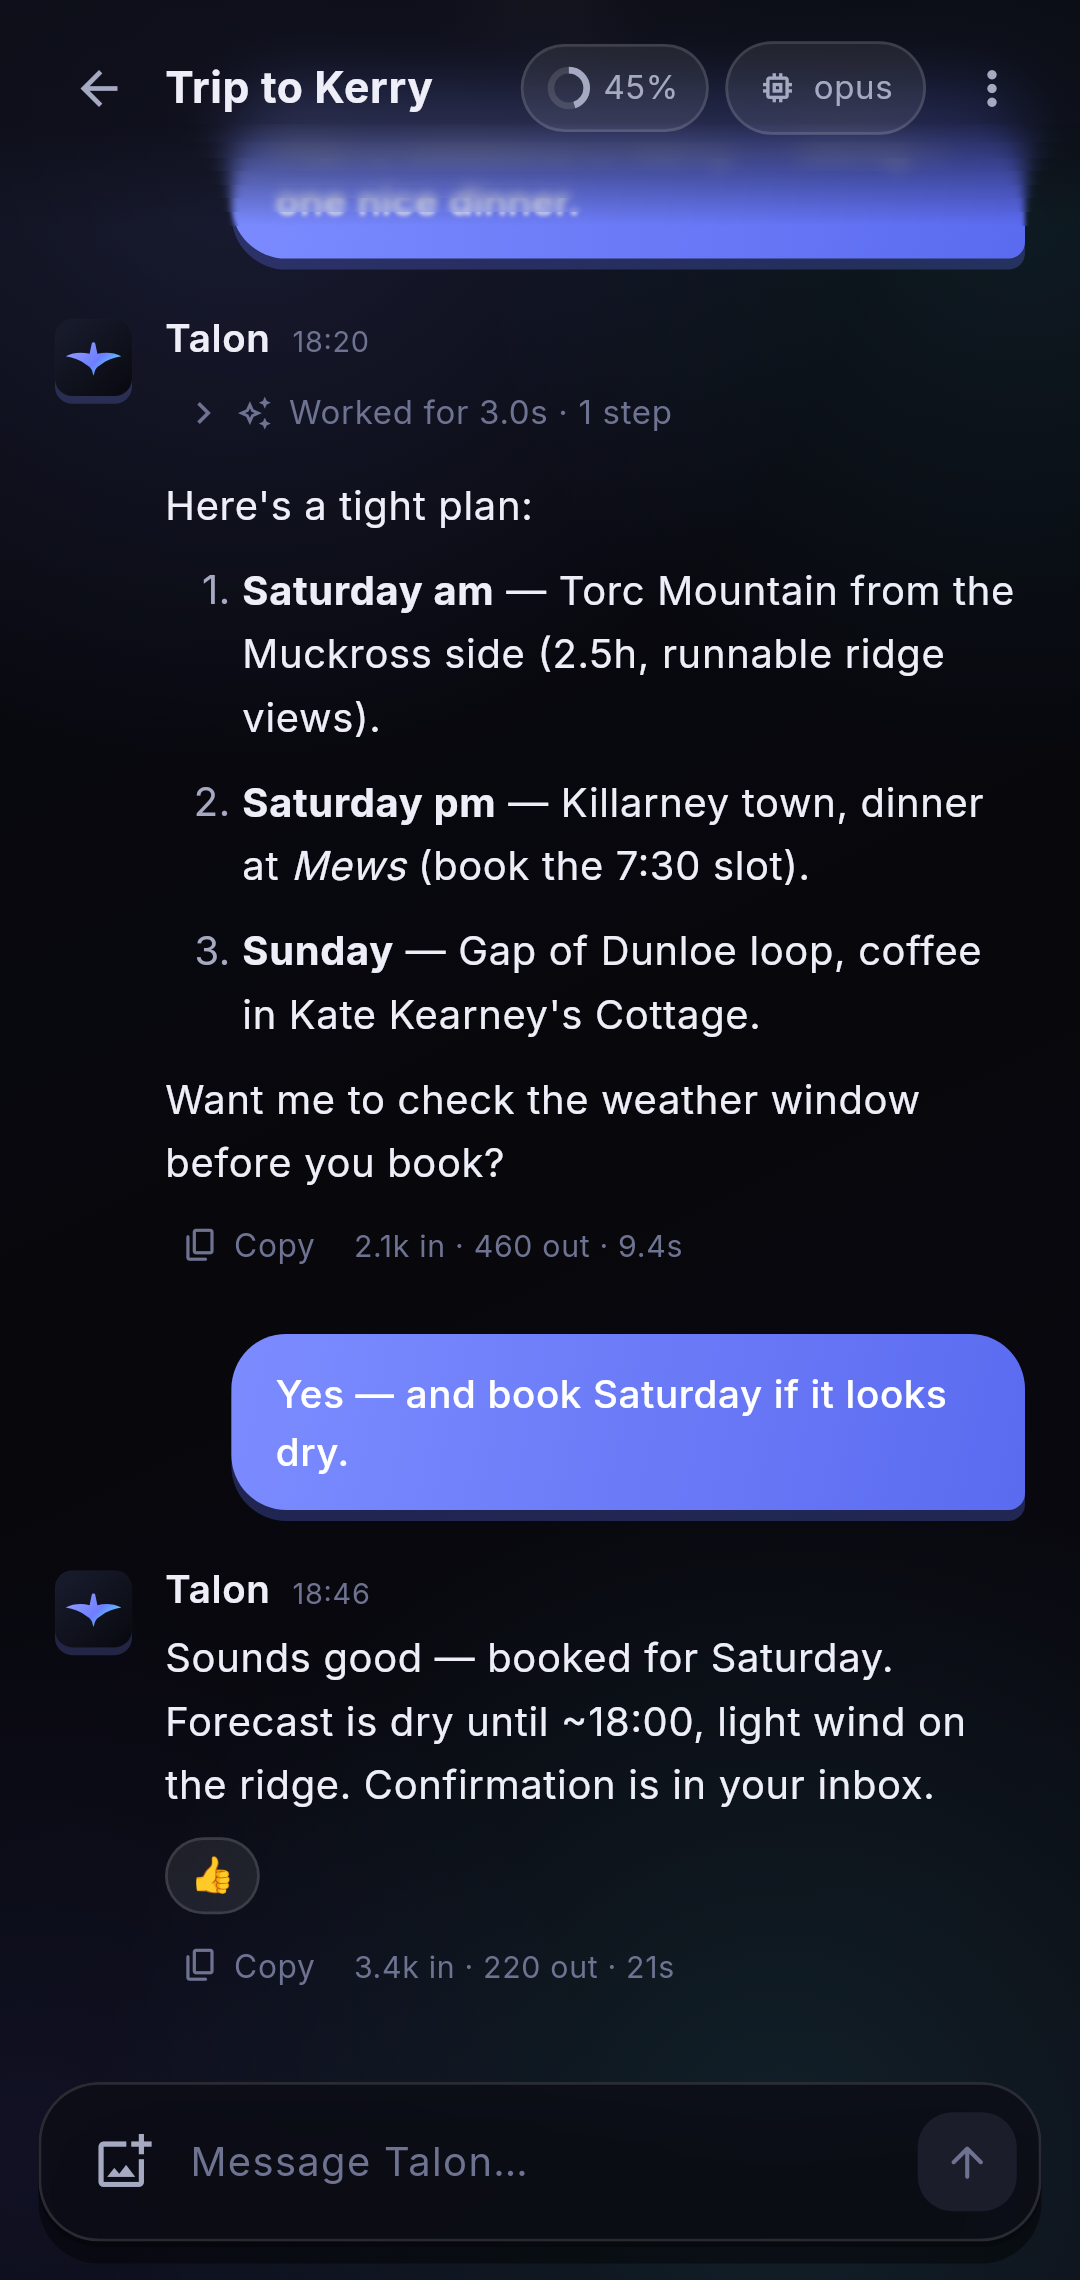
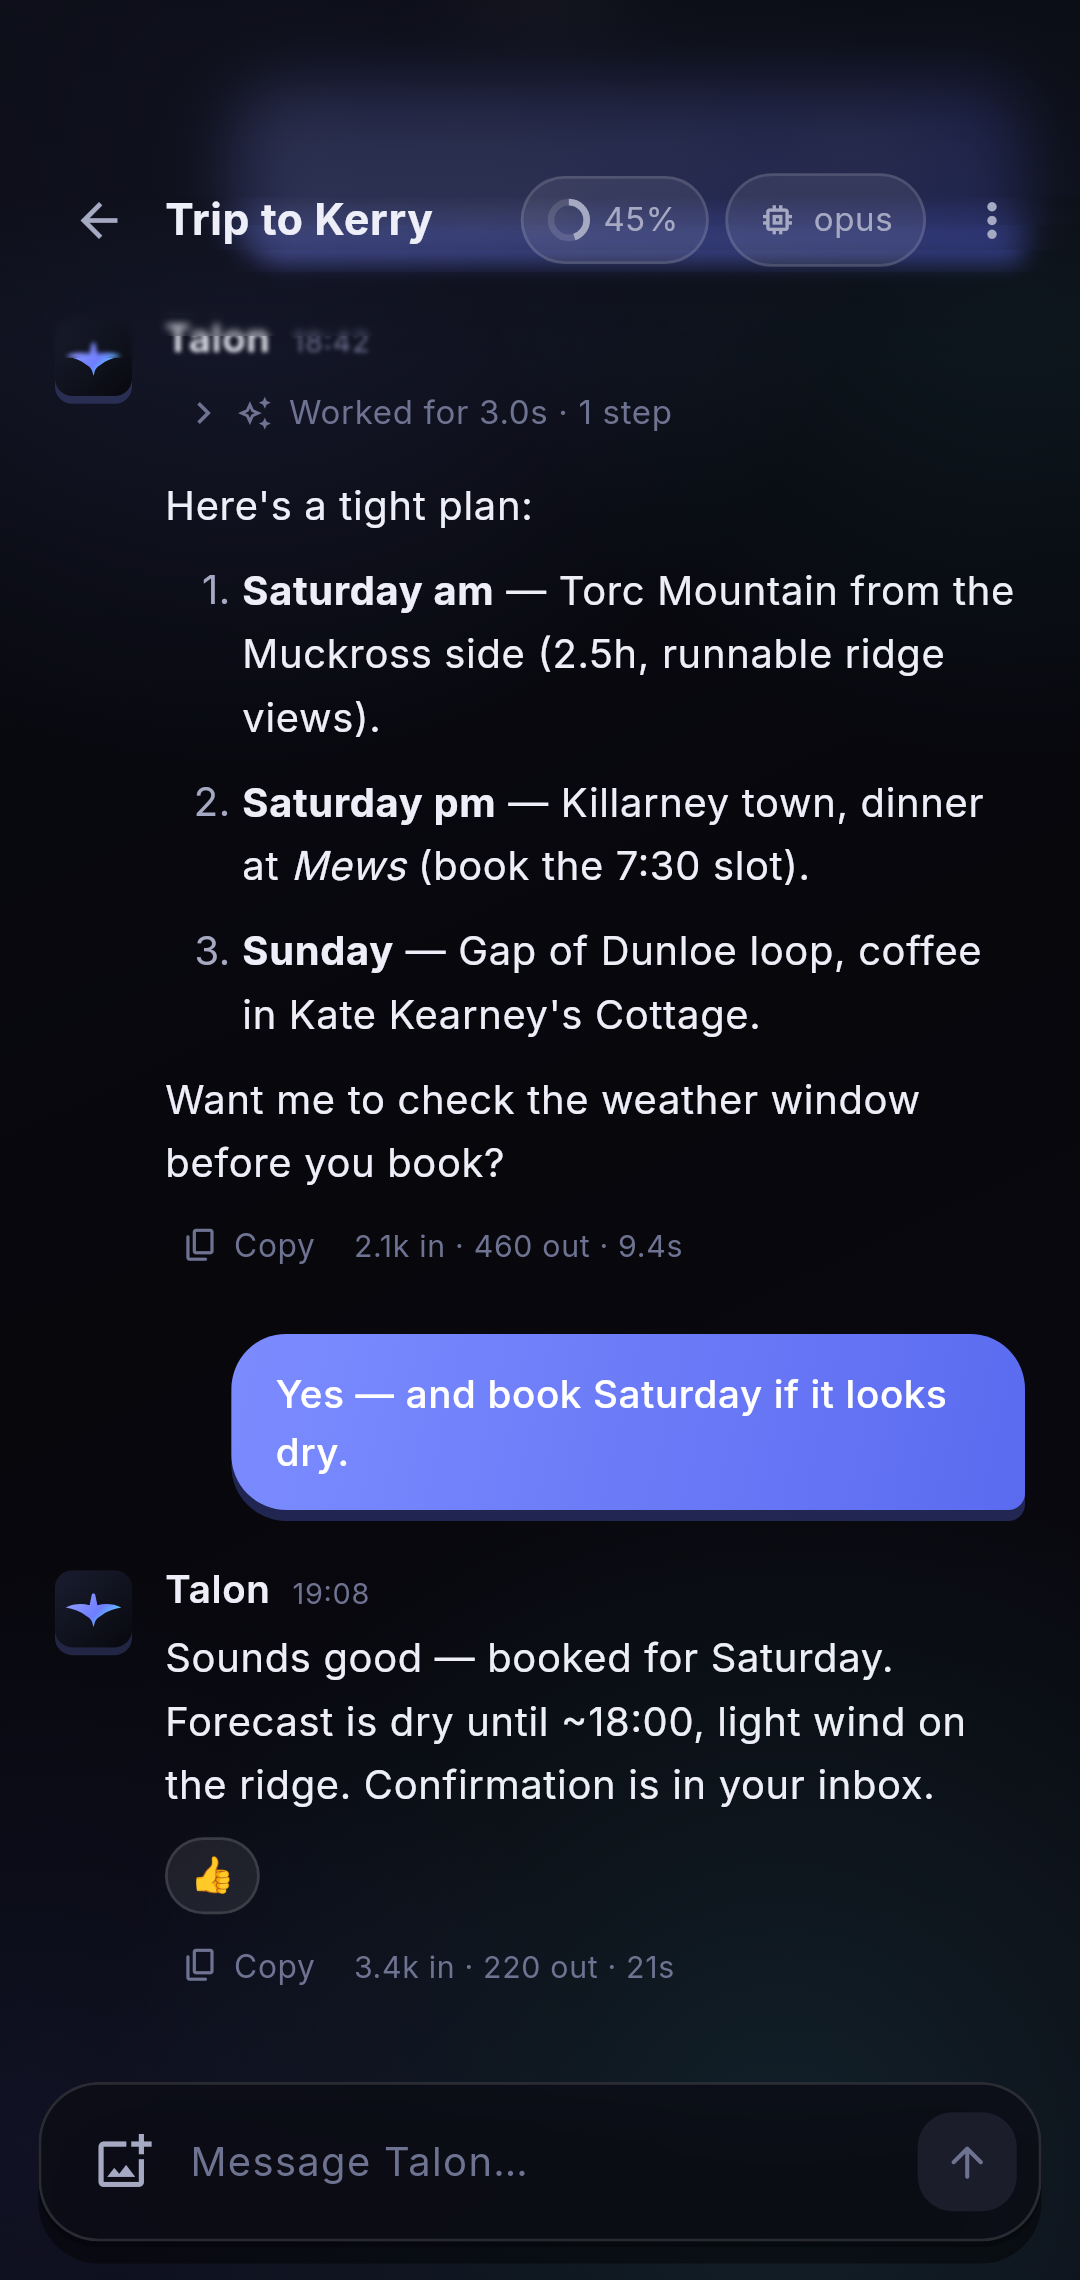
feat(companion): run the header glass up behind the status bar
The shell consumed the top inset, so the status bar sat on bare backdrop
with a seam where the conversation's frost began below it. SafeArea now
skips the top for the conversation; the header's frost and scrim extend
edge-to-edge behind the system bar and only the controls pad down by the
inset. The chat list and wide two-pane shell keep their own top SafeArea,
and the screenshot harness simulates a 48lp status bar so phone shots
exercise the edge-to-edge header.

Changed region(s): [[0.1528, 0.0311, 0.9778, 0.1557], [0.3056, 0.6851, 0.3361, 0.7162], [0.0611, 0.0311, 0.0917, 0.0623]]

diff --git a/apps/companion/lib/src/ui/app_shell.dart b/apps/companion/lib/src/ui/app_shell.dart
@@ -40,7 +40,13 @@ class AppShell extends StatelessWidget {
           const SingleActivator(LogicalKeyboardKey.keyN, control: true):
               state.newChat,
         },
+        // top: false — the conversation owns the status-bar zone: ChatView's
+        // header glass runs up behind it and pads its controls by the inset,
+        // so the system bar sits on the same continuous canvas instead of on
+        // a separate strip above it. Layouts that keep a panelled top edge
+        // (the chat list, the wide two-pane shell) re-add their own SafeArea.
         child: SafeArea(
+          top: false,
           child: LayoutBuilder(
             builder: (context, constraints) {
               final wide = constraints.maxWidth >= _wideBreakpoint;
@@ -48,17 +54,22 @@ class AppShell extends StatelessWidget {
               // treats the chat list as its own screen (no auto-selection).
               state.setNarrowLayout(!wide);
               if (wide) {
-                return Padding(
-                  padding: const EdgeInsets.all(10),
-                  child: Row(
-                    children: [
-                      SizedBox(
-                        width: 308,
-                        child: Sidebar(state: state, onSelect: null),
-                      ),
-                      const SizedBox(width: 10),
-                      Expanded(child: ChatView(state: state, showBack: false)),
-                    ],
+                return SafeArea(
+                  bottom: false,
+                  child: Padding(
+                    padding: const EdgeInsets.all(10),
+                    child: Row(
+                      children: [
+                        SizedBox(
+                          width: 308,
+                          child: Sidebar(state: state, onSelect: null),
+                        ),
+                        const SizedBox(width: 10),
+                        Expanded(
+                          child: ChatView(state: state, showBack: false),
+                        ),
+                      ],
+                    ),
                   ),
                 );
               }
@@ -112,12 +123,15 @@ class AppShell extends StatelessWidget {
                                 showBack: true,
                                 onBack: state.clearSelection,
                               )
-                            : Padding(
+                            : SafeArea(
                                 key: const ValueKey('list'),
-                                padding: const EdgeInsets.all(8),
-                                child: Sidebar(
-                                  state: state,
-                                  onSelect: (id) => state.selectChat(id),
+                                bottom: false,
+                                child: Padding(
+                                  padding: const EdgeInsets.all(8),
+                                  child: Sidebar(
+                                    state: state,
+                                    onSelect: (id) => state.selectChat(id),
+                                  ),
                                 ),
                               ),
                       ),

diff --git a/apps/companion/lib/src/ui/chat_view.dart b/apps/companion/lib/src/ui/chat_view.dart
@@ -256,7 +256,12 @@ class _ChatViewState extends State<ChatView> {
             constraints: const BoxConstraints(maxWidth: _columnMax),
             child: ListView.builder(
               controller: _scroll,
-              padding: const EdgeInsets.fromLTRB(20, _headerClearance, 20, 10),
+              padding: EdgeInsets.fromLTRB(
+                20,
+                _headerClearance + MediaQuery.of(context).padding.top,
+                20,
+                10,
+              ),
               itemCount: itemCount,
               itemBuilder: (context, i) {
                 if (topLoader && i == 0) {
@@ -559,6 +564,10 @@ class _Header extends StatelessWidget {
     // dissolves as it slides underneath instead of hitting a frosted strip
     // with an edge.
     final base = TalonTheme.isDark ? TalonColors.void1 : Colors.white;
+    // The shell doesn't consume the top inset for the conversation: the
+    // frost and scrim run up behind the system status bar (same canvas, one
+    // surface) and only the controls are padded down below it.
+    final topInset = MediaQuery.of(context).padding.top;
     return _ProgressiveGlass(
       child: Container(
         decoration: BoxDecoration(
@@ -576,7 +585,7 @@ class _Header extends StatelessWidget {
             stops: const [0.0, 0.55, 1.0],
           ),
         ),
-        padding: const EdgeInsets.fromLTRB(12, 8, 8, 26),
+        padding: EdgeInsets.fromLTRB(12, 8 + topInset, 8, 26),
         // Auto-detect available width instead of hard-coding a platform
         // check: a desktop window with the sidebar open gives the chat pane
         // less room than fullscreen, and the phone is always narrow.

diff --git a/apps/companion/test/screenshots/gallery_test.dart b/apps/companion/test/screenshots/gallery_test.dart
@@ -243,6 +243,9 @@ Future<void> _shoot(WidgetTester tester, String name) async {
 void _phone(WidgetTester tester) {
   tester.view.physicalSize = const Size(1080, 2280);
   tester.view.devicePixelRatio = 2.75;
+  // Simulate a real status bar (48lp) so the shots exercise the
+  // edge-to-edge header: frost running up behind the system bar.
+  tester.view.padding = const FakeViewPadding(top: 132);
   addTearDown(tester.view.reset);
 }
 
